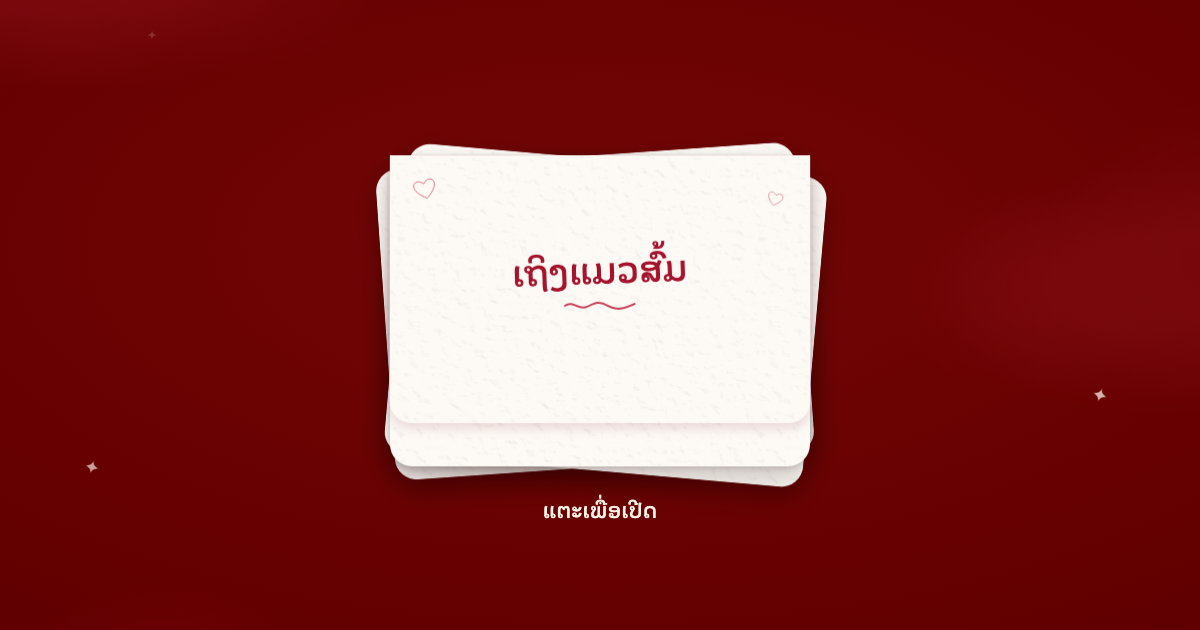
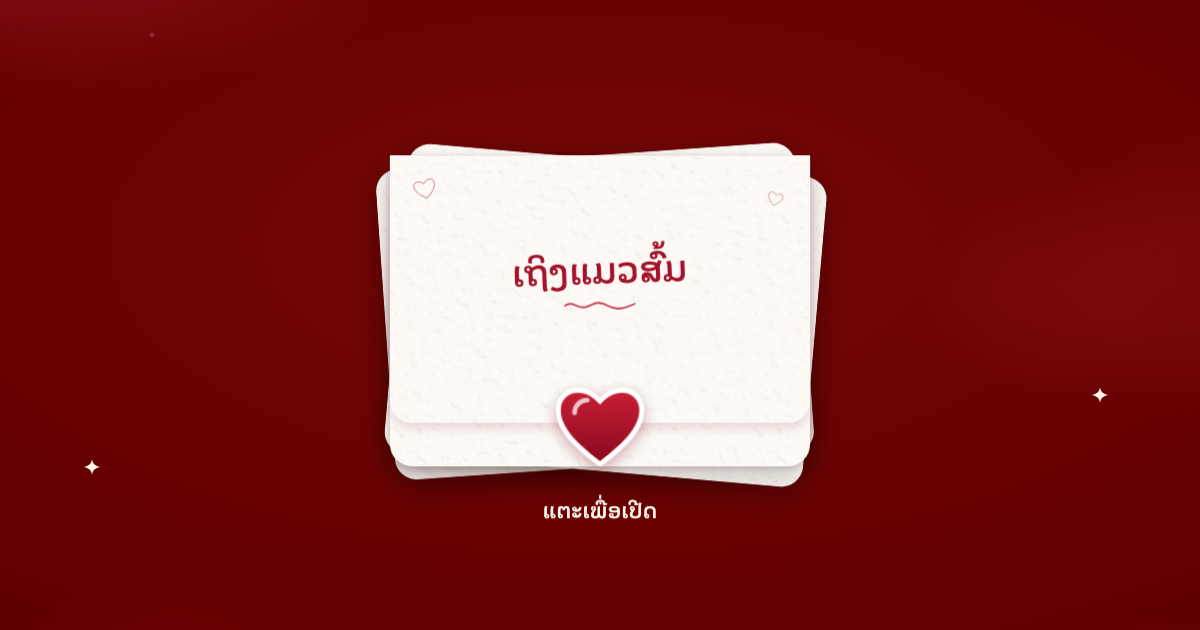
Keep the heart sticker above the folded flap
The flap's slight tilt raised its edge to the sticker's depth, which could hide the sticker on wide screens.

diff --git a/index.html b/index.html
@@ -155,7 +155,7 @@
     height: var(--flap);
     transform-origin: 50% 100%;
     transform-style: preserve-3d;
-    transform: translateZ(1px) rotateX(-179.6deg);
+    transform: translateZ(1px) rotateX(-180deg);
     transition: transform 1.25s cubic-bezier(.5, .04, .18, 1);
   }
   .is-open .flap { transform: translateZ(0) rotateX(0deg); }
@@ -203,7 +203,7 @@
     background: none;
     border-radius: 0 0 var(--r) var(--r);
     cursor: pointer;
-    transform: translateZ(3px);
+    transform: translateZ(8px);
     color: inherit;
     font: inherit;
   }
